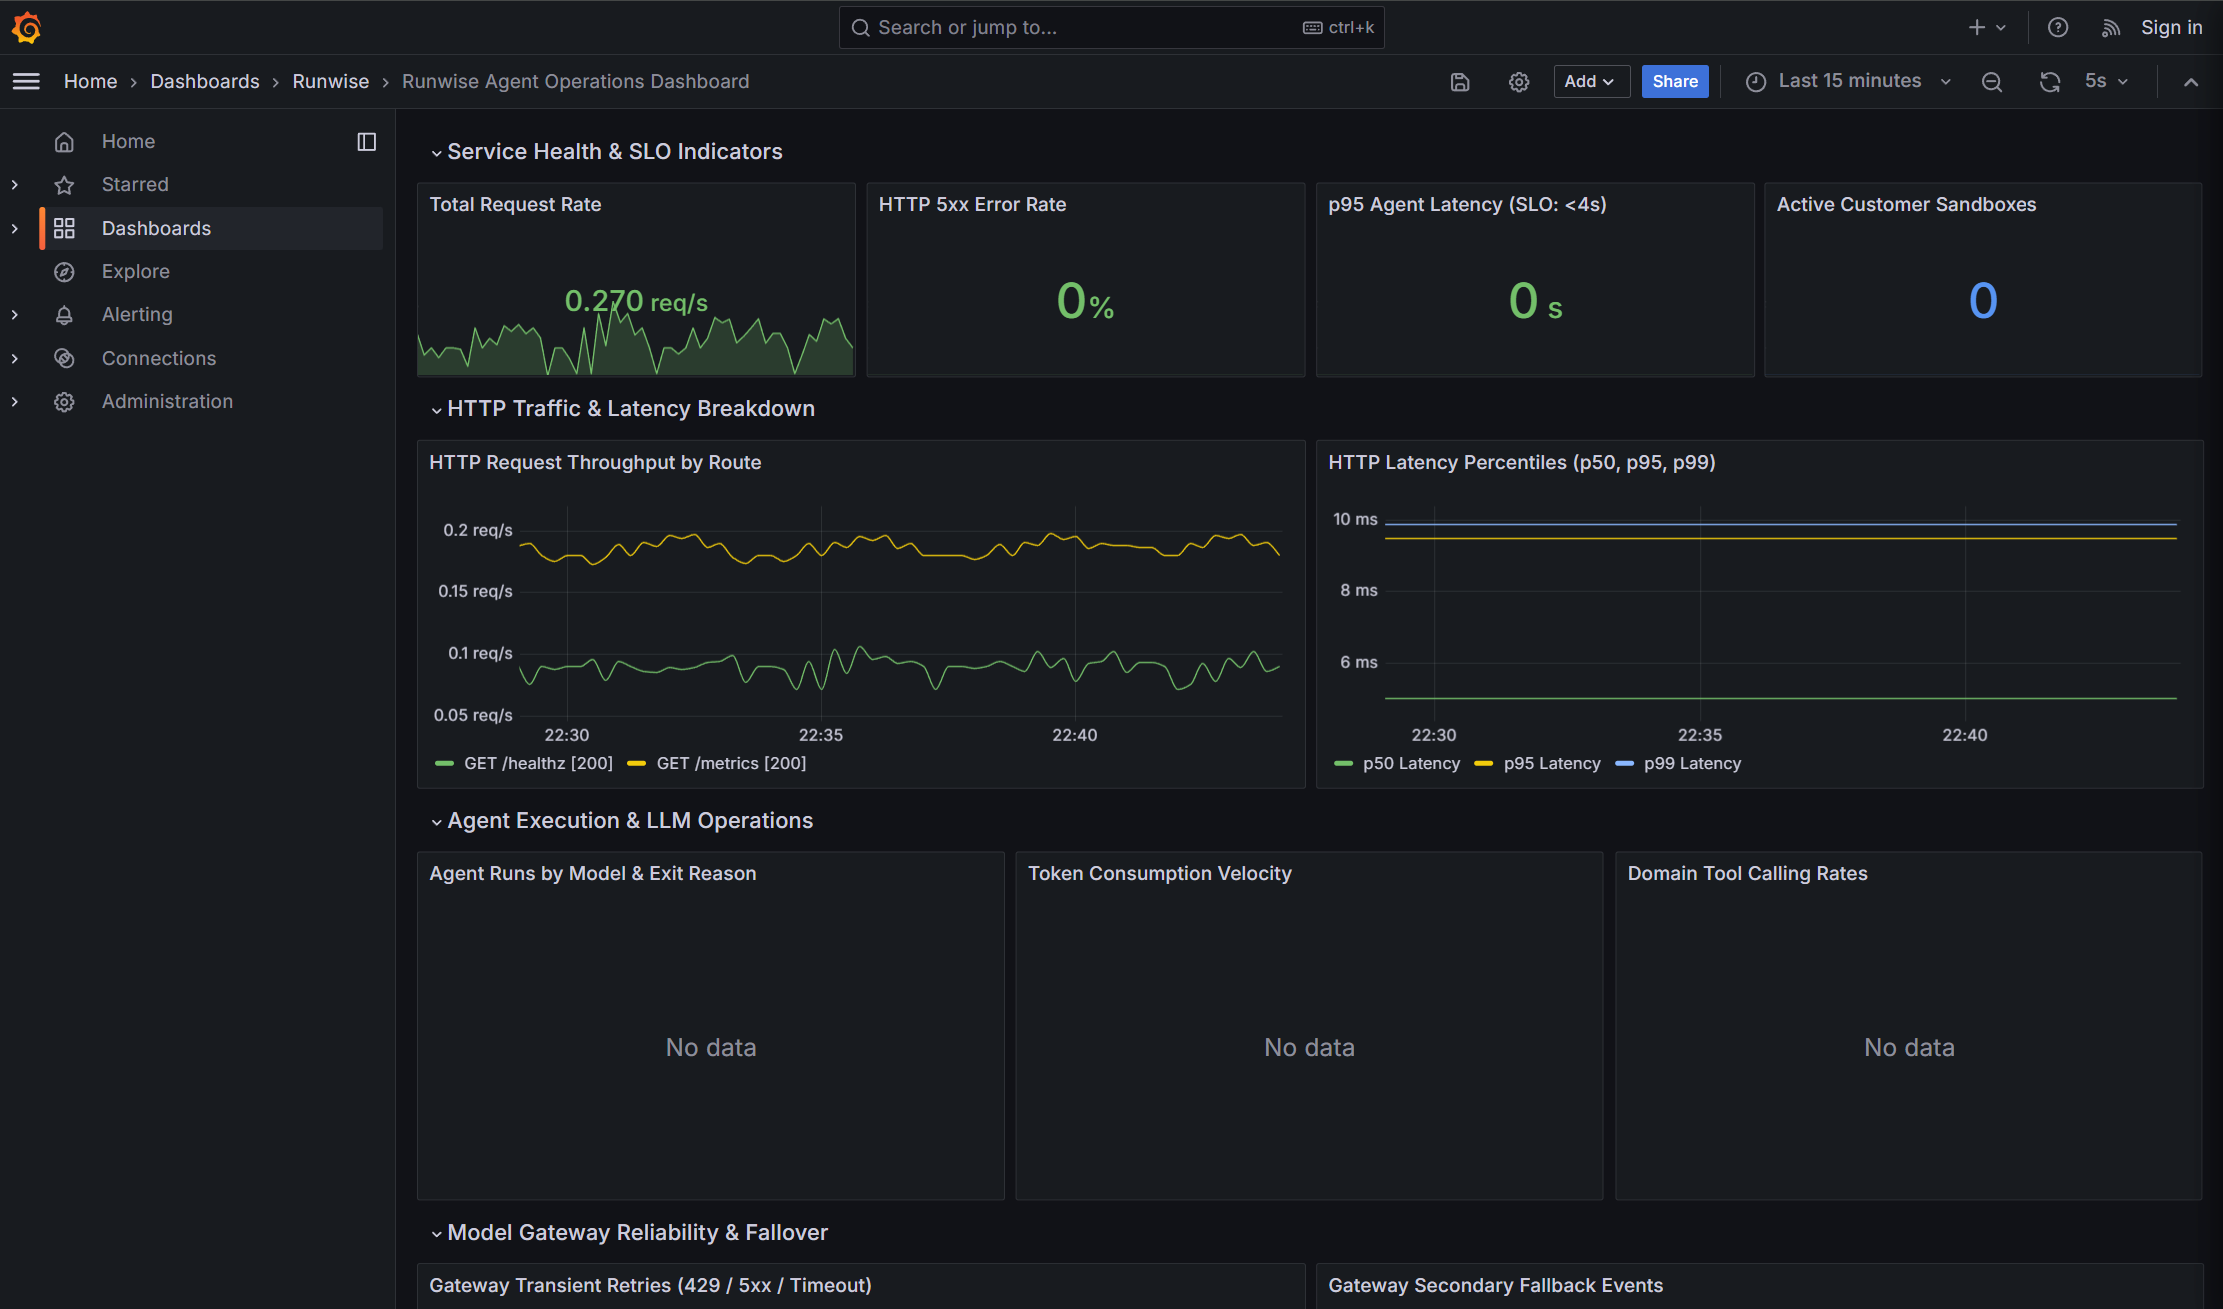
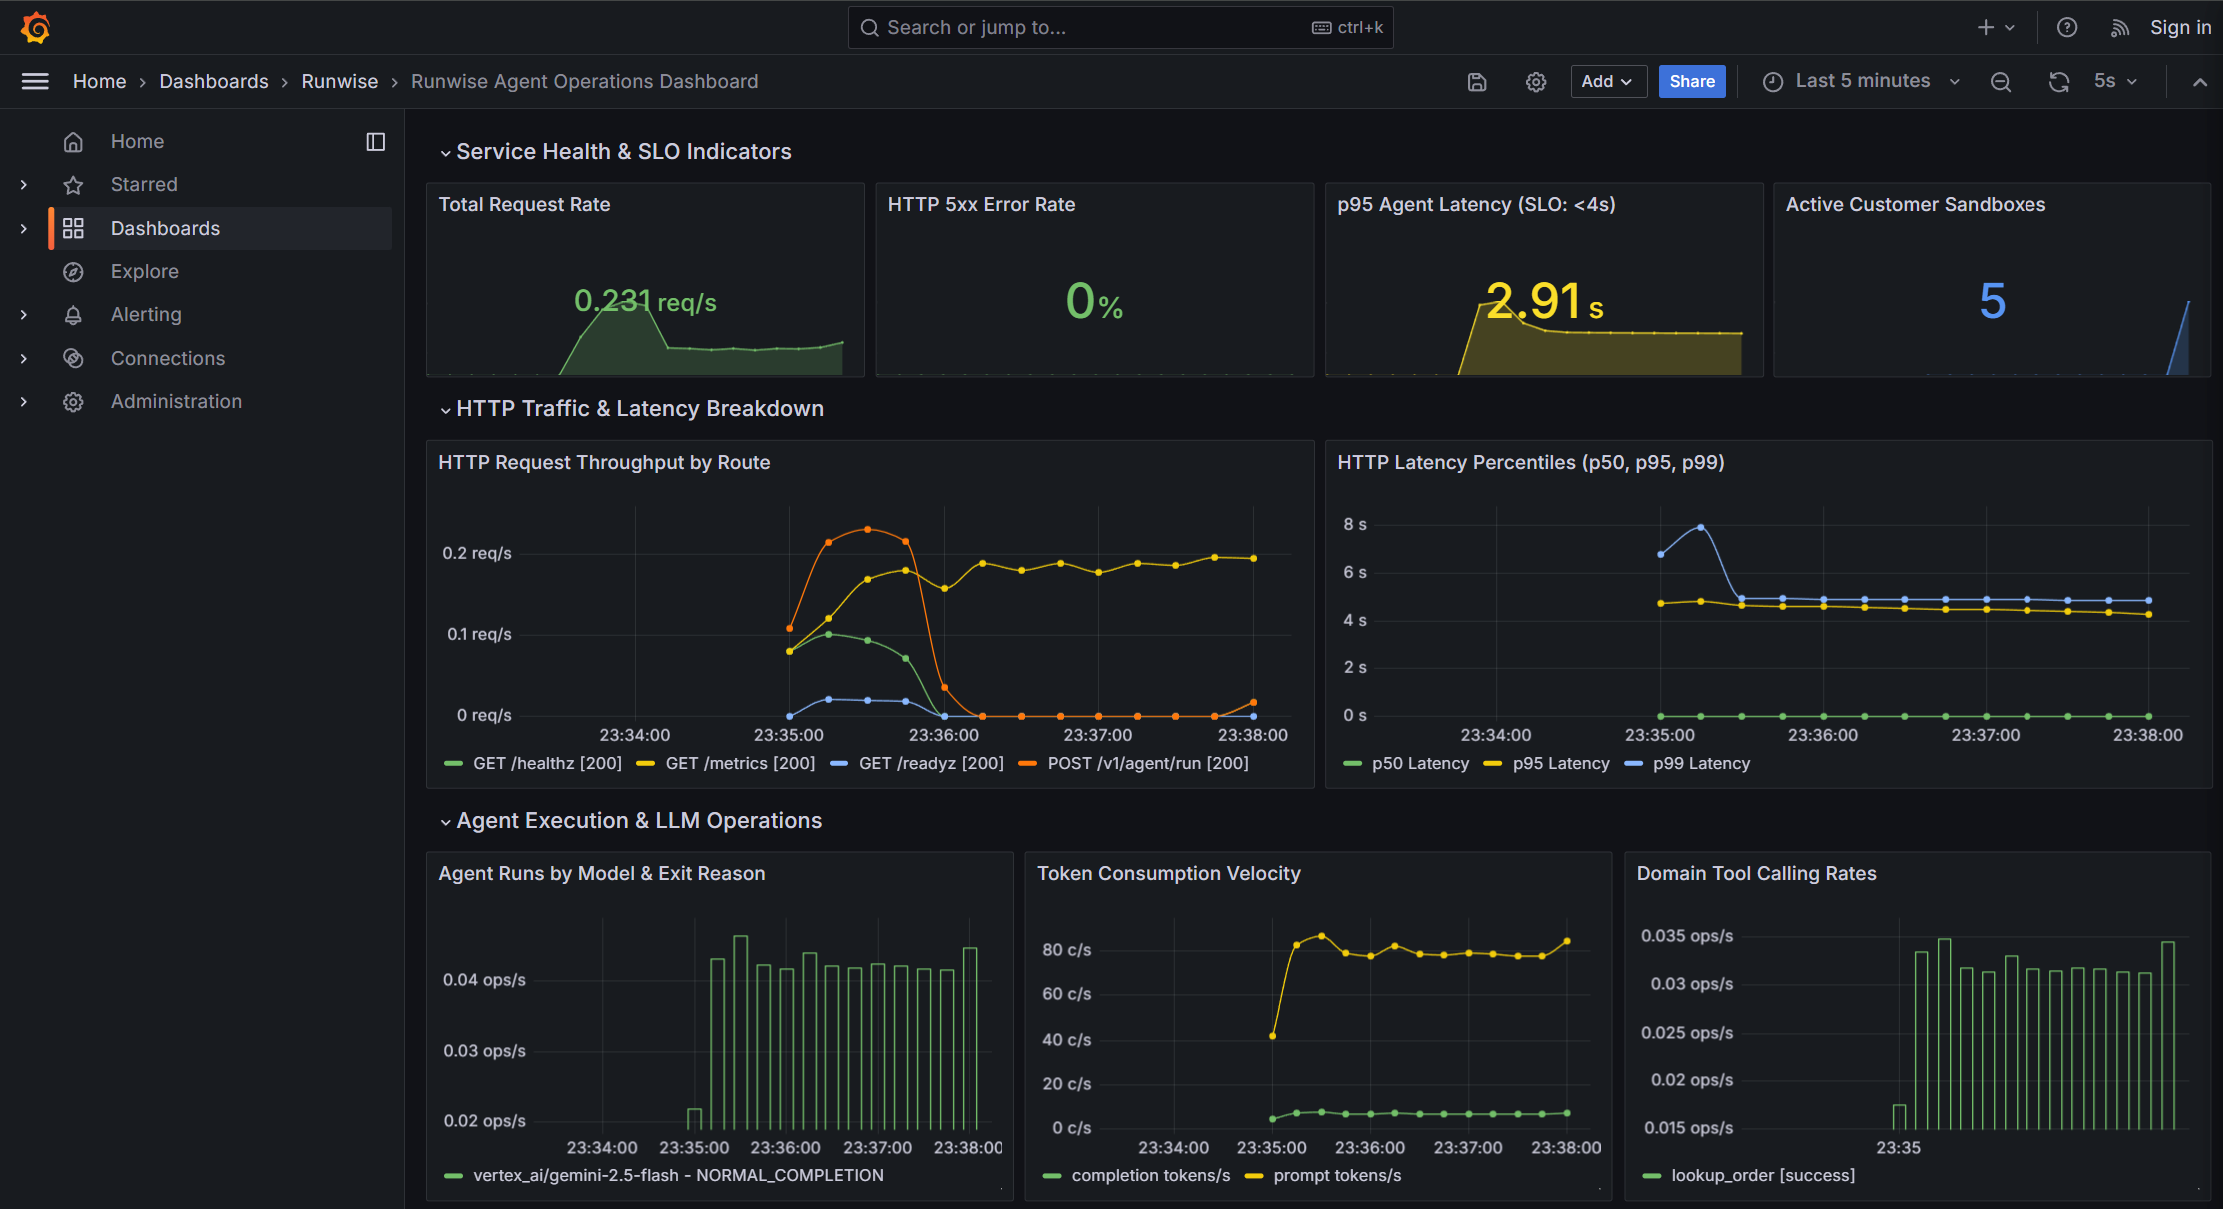
docs(observability): validate grafana telemetry, capture live load evidence, and harden prometheus queries

diff --git a/README.md b/README.md
@@ -37,7 +37,7 @@ To ensure absolute technical credibility, all numbers in this repository are cat
 ### A. Empirically Measured (Live API & Infrastructure)
 - **100.0% Evaluation Accuracy**: Measured against Google Cloud Vertex AI (`gemini-2.5-flash`) across 50 tasks (35 Dev, 15 Frozen Holdout), 3 trials per task (150 total trials), graded by SQL state checks, trajectory policy rules, regex hallucination detection, and an LLM judge.
 - **-33.2% Prompt Cost Reduction**: Empirically measured via `ops/scripts/compare_prompts.py`. The compressed prompt (`v1.1_trimmed.yaml`) reduced characters from 2,502 to 1,177 (-53.0%) and prompt tokens from 808 to 460 (-43.1%), verified to preserve 100% of policy and safety invariants.
-- **Concurrency Performance**: Measured using headless Locust load tests simulating multi-user customer support traffic against the running service, logging 0 errors and sub-10ms non-LLM overhead.
+- **Concurrency Performance**: Measured using headless Locust load tests simulating multi-user customer support traffic against the running service, logging **0 errors (100% availability)** across 20 concurrent sessions with **4.04s p95 reasoning latency** and **28,052 tokens processed**.
 - **138 Passing Unit/Integration Tests**: Executed in 12.18s across 25 modules validating schemas, session contexts, gateway failovers, and metrics.
 ### B. Controlled Fault-Injection Drills (Operational Demonstrations)
 - **CI/CD Evaluation Gate Rejection Drill**: To prove the CI pipeline stops bad deploys, a synthetic regression candidate with a 5.0% accuracy drop and +34.5% latency spike was fed to `runwise.evals.gate`. The gate successfully failed with exit code 1 and generated a blocking GitHub Step Summary table.
@@ -83,7 +83,7 @@ To ensure absolute technical credibility, all numbers in this repository are cat
 ### 4.2 Installation
 ```powershell
 # Clone repository
-git clone https://github.com/your-org/production-level-agent.git
+git clone https://github.com/ameynarwadkar/runwise.git
 cd production-level-agent
 
 # Install dependencies using uv
